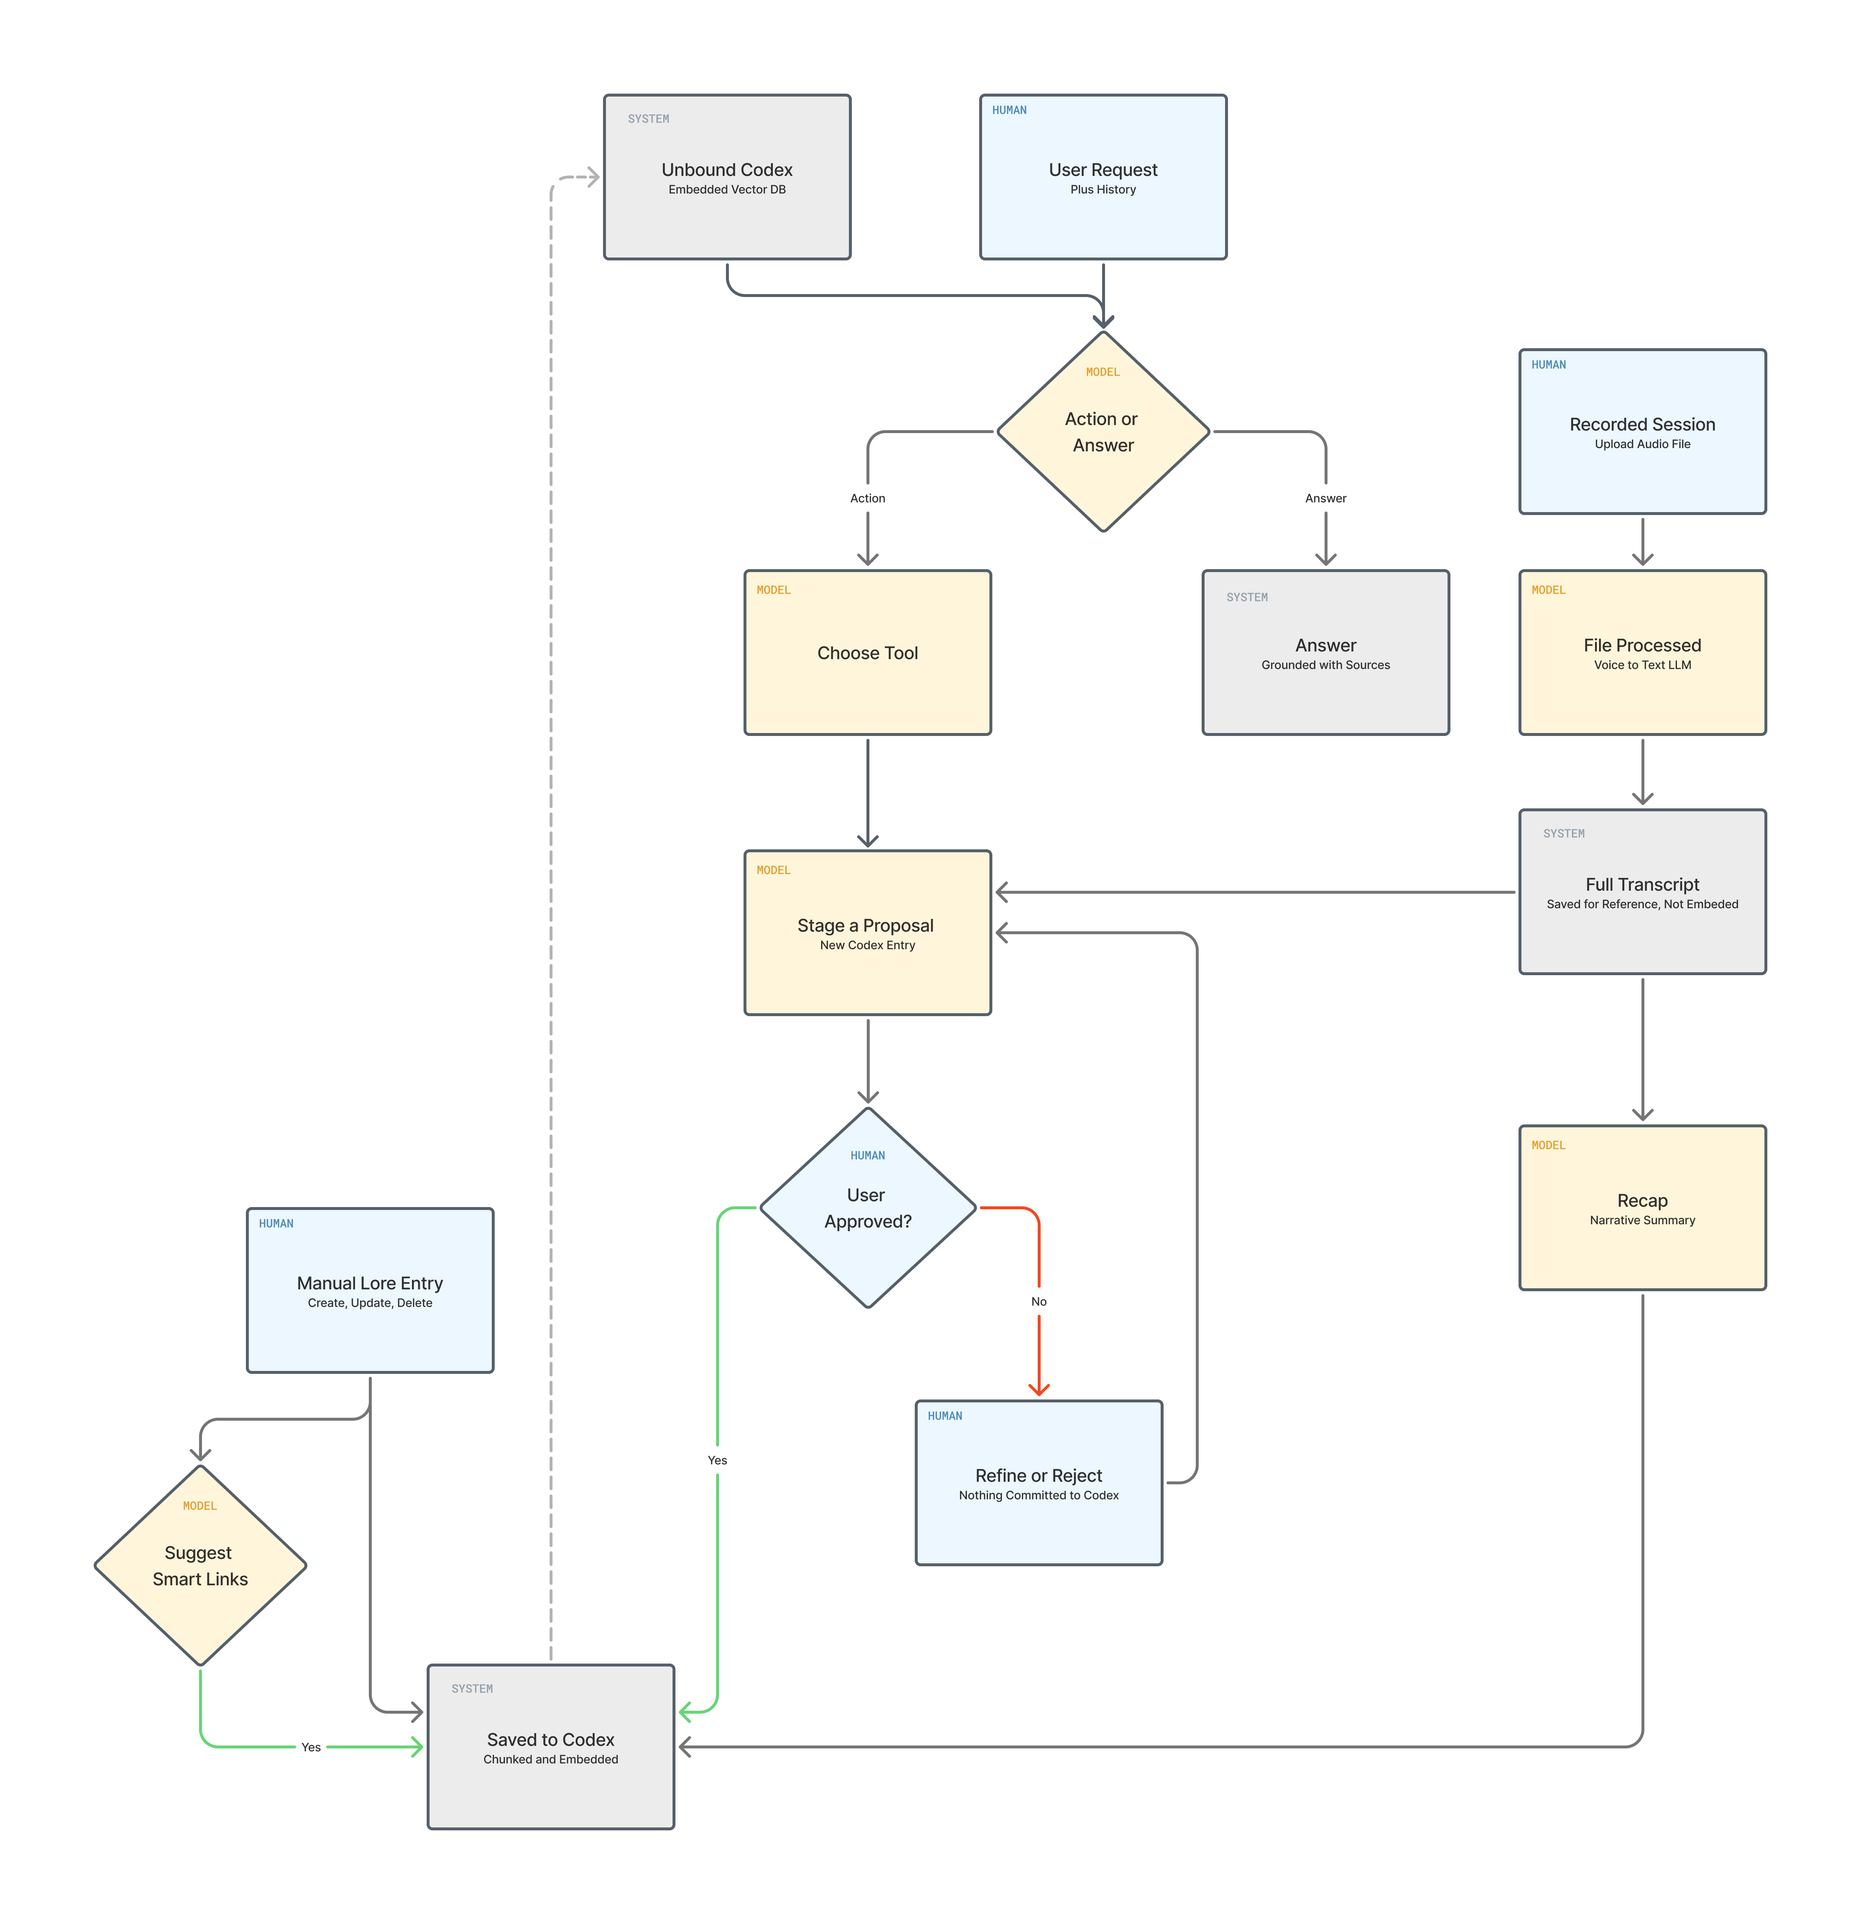
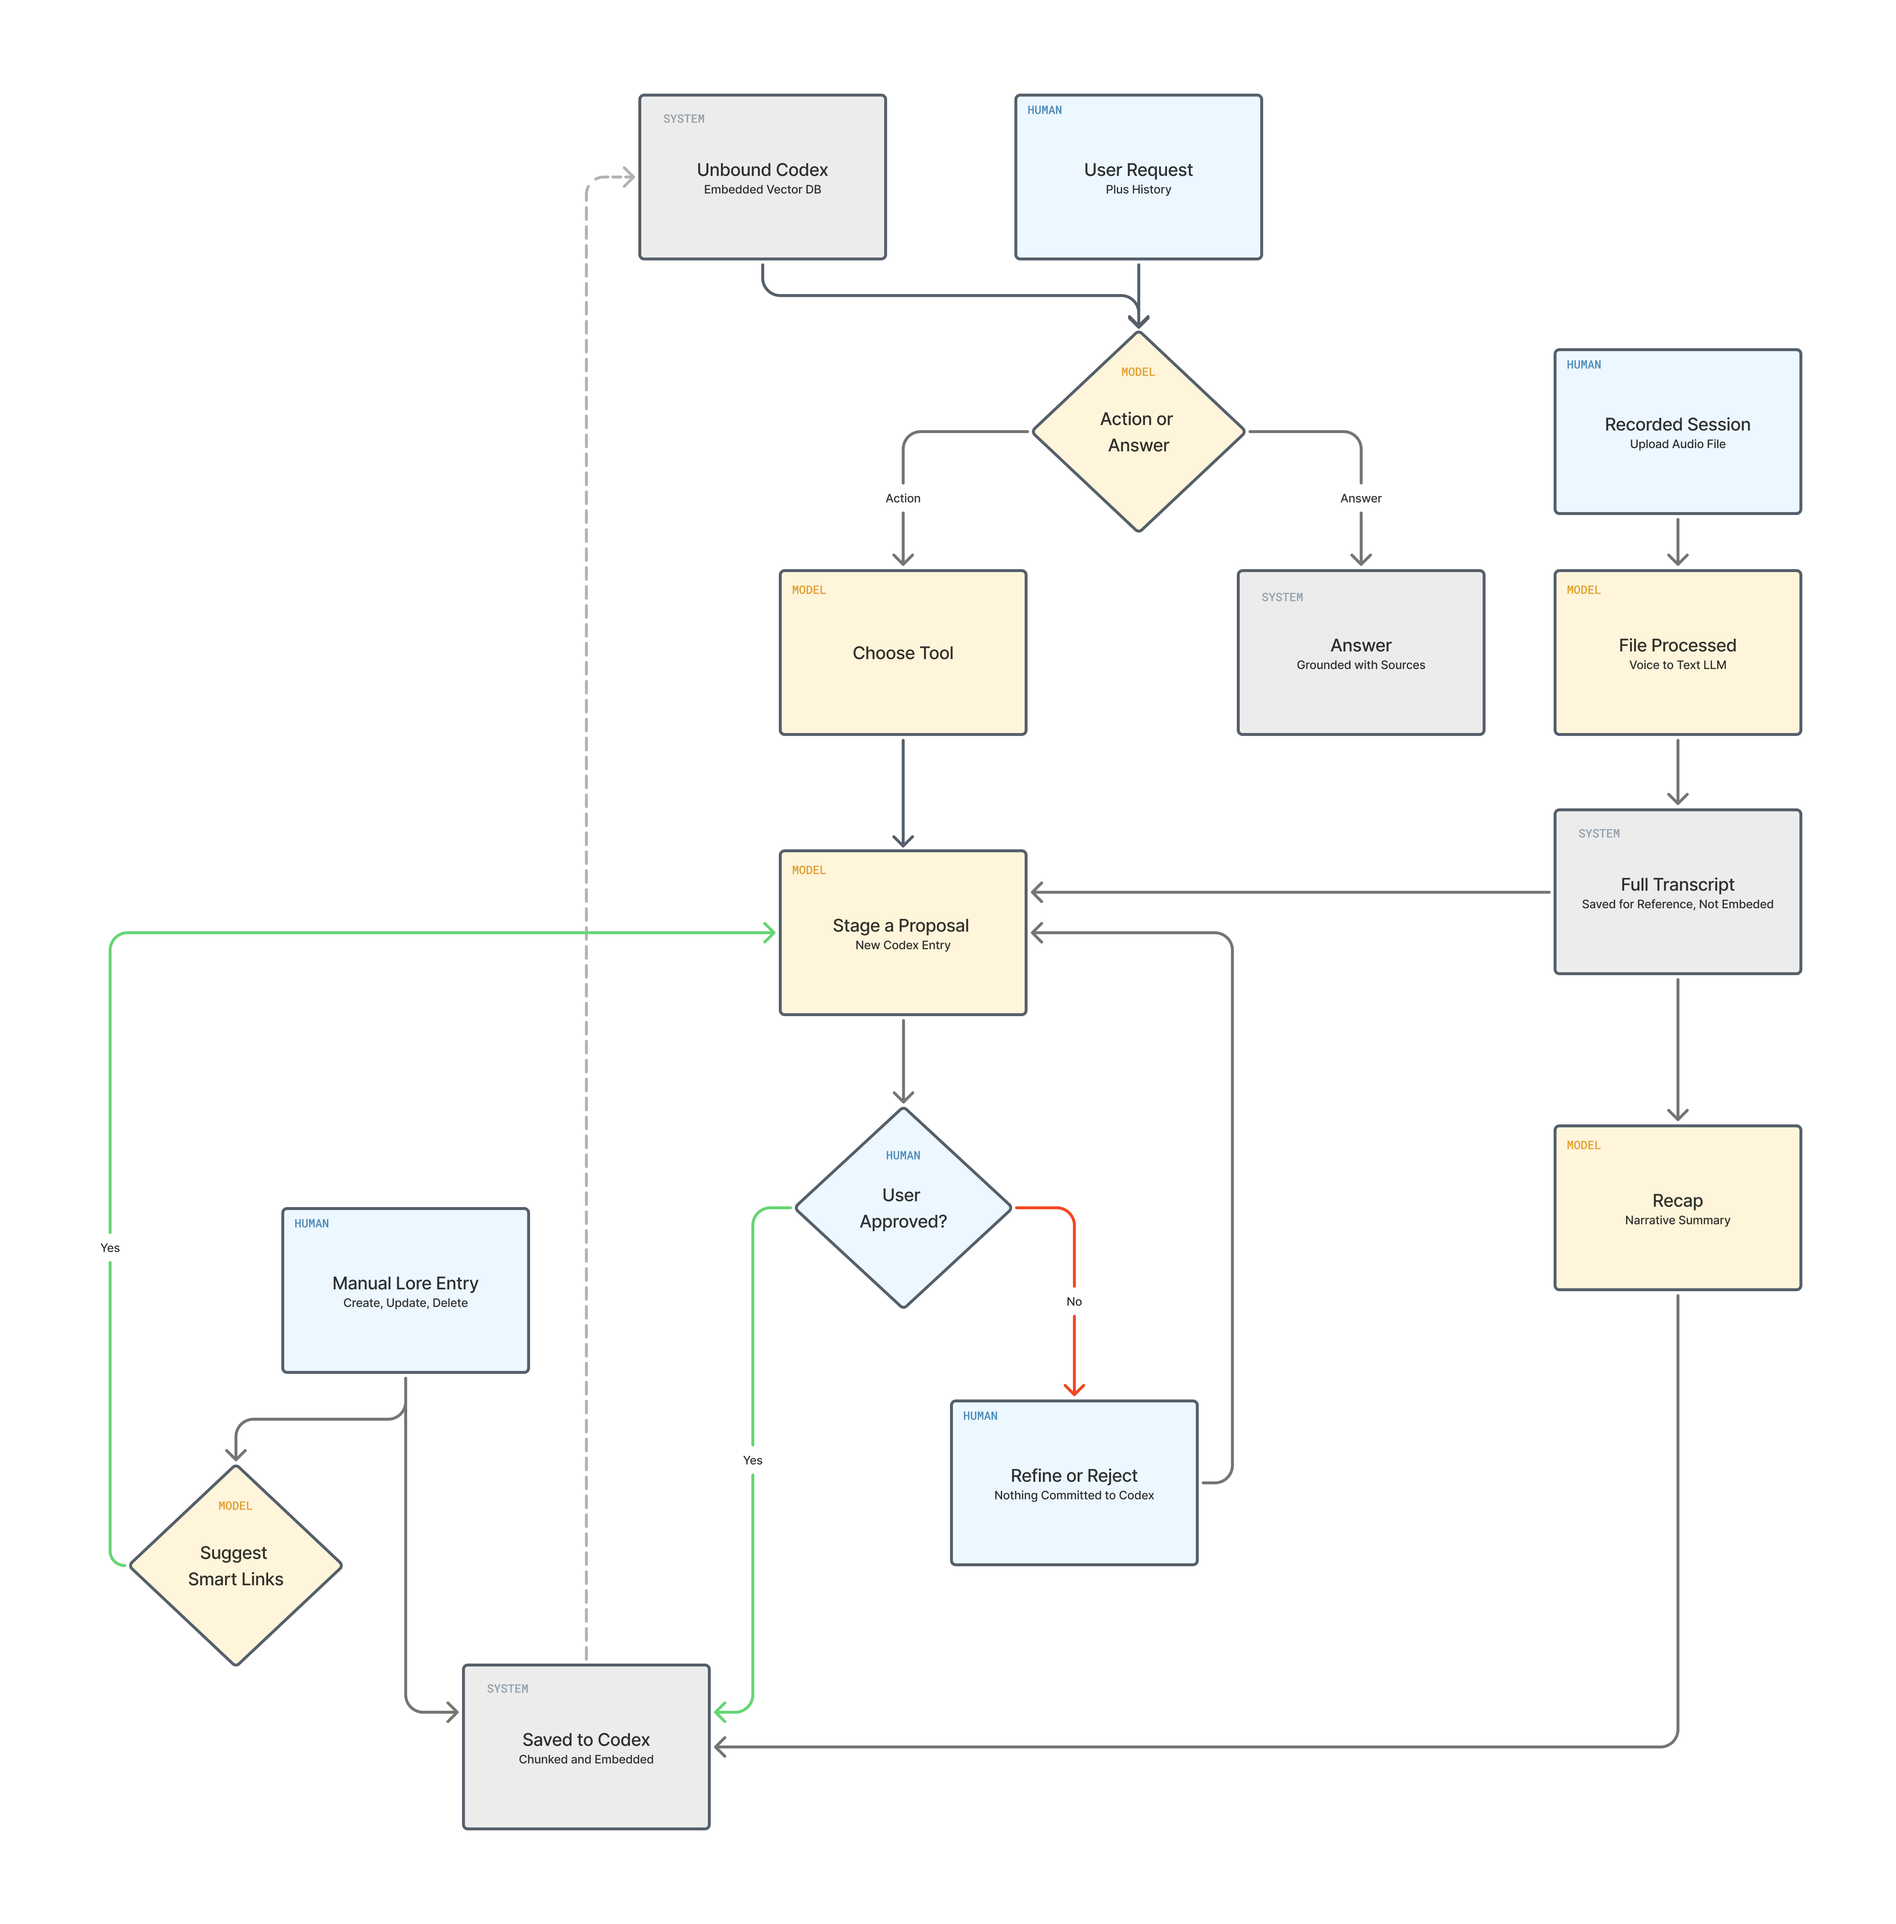
portfolio update

diff --git a/assets/css/style.css b/assets/css/style.css
@@ -3480,14 +3480,6 @@ a.project-card {
   margin: 12px;
 }
 
-/* Unbound Codex card cover: a UI panel, so cropping it cuts the toolbar and
-   the footer disclaimer. Contain it whole and let the card's own gradient
-   show as the surrounding plate. */
-.side-card-cover--unbound .side-card-img {
-  object-fit: contain;
-  padding: 12px;
-}
-
 /* Cropped hero image. A very wide source scaled to the hero width renders its
    detail too small to read. Constraining the box to a taller ratio and
    covering crops the sides instead, so the artwork renders larger and sharper.

diff --git a/unbound-codex/index.md b/unbound-codex/index.md
@@ -62,7 +62,6 @@ permalink: /unbound-codex/
   <div class="major-section-inner major-section-inner--wide">
     <div class="subsection">
       <h3 class="case-study-sub-mode">The grounding loop</h3>
-      <p>Under the panel is a retrieval-augmented loop with one rule: Silias can only answer from what's in the codex, and can only change it with your say-so. Every entry is embedded ahead of time, a question retrieves against that store, the answer cites what it used, and any write is a staged proposal you approve before it lands. Three things can feed that loop &mdash; a request in chat, a recorded session mined for the moments worth keeping, or lore you write by hand &mdash; and every one of them converges on the same human approval gate before anything becomes canon. It's the same reason a legal or research tool has to be grounded, verifiable, and human-gated, applied to a campaign world.</p>
       <div class="case-study-callout-row">
         <figure class="cs-callout-figure">
           <img src="{{ '/assets/img/unbound-codex/uc-rag-flow.png' | relative_url }}" alt="Flow diagram of the Unbound Codex grounding loop. A user request (with history) and the embedded codex feed a model decision: answer or act. Answers are grounded and cited and stop there; actions choose a tool and stage a proposal. Two other inputs feed the same staged proposal: a recorded session transcribed to a recap, and manual lore entry with suggested smart links. Every proposal reaches a human 'User approved?' gate. Yes saves it to the codex, chunked and re-embedded, closing the loop. No sends it back to refine or reject, with nothing committed.">
@@ -102,7 +101,6 @@ permalink: /unbound-codex/
       </div>
 
       <h3 class="case-study-sub-mode">Always one keystroke away, always grounded</h3>
-      <p>Silias rides along on every screen in a panel that never leaves. He answers in-character from the campaign's own canon, cites the entries he leaned on ("Grounded in: Campaign / SRD"), and turns any answer into a scene, an NPC, or the next beat. The point is a collaborator you can trust because you can see exactly where every claim came from.</p>
       <div class="case-study-callout-row">
         <figure class="cs-callout-figure">
           <img src="{{ '/assets/img/unbound-codex/uc-silias-overview.png' | relative_url }}" alt="Campaign overview with the Ask Silias panel and its signature gradient border">
@@ -120,7 +118,6 @@ permalink: /unbound-codex/
       </div>
 
       <h3 class="case-study-sub-mode">Nothing lands without your yes</h3>
-      <p>Ask Silias to build something and he hands back a plan, not a fait accompli. A single <em>/plan</em> can propose a connected set (an NPC, the quest they give, the location they live in) generated together so the pieces stay consistent with each other and the world. Every piece is a staged change you approve, edit, or reject. The AI is useful without ever being authoritative.</p>
       <div class="case-study-callout-row">
         <figure class="cs-callout-figure">
           <img src="{{ '/assets/img/unbound-codex/uc-silias-plan.png' | relative_url }}" alt="Silias returning a multi-step plan with staged NPC and quest proposals to approve or reject">
@@ -138,7 +135,6 @@ permalink: /unbound-codex/
       </div>
 
       <h3 class="case-study-sub-mode">The codex he reads from</h3>
-      <p>Lore lives as long-form, in-world documents: the "Folio" material, with hairline gold rules and no wrapper box. Entries reference each other by id, so editing one propagates everywhere it's mentioned, and a single visibility flag decides whether the party ever sees it.</p>
       <div class="case-study-callout-row">
         <figure class="cs-callout-figure">
           <img src="{{ '/assets/img/unbound-codex/uc-lore.png' | relative_url }}" alt="A lore entry rendered as an in-world Folio document with an entry tree">
@@ -161,7 +157,7 @@ permalink: /unbound-codex/
     <div class="case-study-act-number">02</div>
     <div class="case-study-act-content">
       <h2 class="case-study-act-title">A world you can actually run</h2>
-      <p class="case-study-act-intro">The codex covers everything a DM touches in a week: the Atlas, the cast, the threads in motion, the encounter builder, the bestiary. It's shaped around the rituals of play (prep, session, recap) rather than around tables and forms. The design through-line is a set of rules I wrote down and held to: a box means "you can click me," hairlines instead of outlines, category signaled by a tinted icon rather than a bare colored dot. The goal was software that looks designed, not generated.</p>
+      <p class="case-study-act-intro">The codex covers everything a DM touches in a week: the Atlas, the cast, the threads in motion, the graph tying them together, the encounter builder, the bestiary. It's shaped around the rituals of play (prep, session, recap) rather than around tables and forms. The design through-line is a set of rules I wrote down and held to: a box means "you can click me," hairlines instead of outlines, category signaled by a tinted icon rather than a bare colored dot. The goal was software that looks designed, not generated.</p>
     </div>
   </div>
 </section>
@@ -170,7 +166,6 @@ permalink: /unbound-codex/
   <div class="major-section-inner major-section-inner--wide">
     <div class="subsection">
       <h3 class="case-study-sub-mode">The Atlas</h3>
-      <p>The world made spatial. Hand-drawn regional maps, nested sub-maps, and pins that hold their lore. The GM / Player line at the top is the most important control on the page.</p>
       <div class="case-study-callout-row">
         <figure class="cs-callout-figure">
           <img src="{{ '/assets/img/unbound-codex/uc-atlas.png' | relative_url }}" alt="The Atlas showing a hand-drawn map of Aethel with location pins">
@@ -186,7 +181,6 @@ permalink: /unbound-codex/
       </div>
 
       <h3 class="case-study-sub-mode">Characters of the World</h3>
-      <p>NPCs get a purpose-built page, not a generic record. What you can say at the table sits beside what only you know, and the whole thing follows the de-box rules: no wrapper boxes, hairline separators, a locked panel for secrets.</p>
       <div class="case-study-callout-row">
         <figure class="cs-callout-figure">
           <img src="{{ '/assets/img/unbound-codex/uc-npc.png' | relative_url }}" alt="An NPC detail page for Elder Corin with at-the-table facts beside GM-only secrets">
@@ -204,7 +198,6 @@ permalink: /unbound-codex/
       </div>
 
       <h3 class="case-study-sub-mode">Threads</h3>
-      <p>The story layer players never see: what's in motion, who's driving it, and the secrets waiting to be found. It's the difference between a binder of static lore and a campaign that's actually going somewhere.</p>
       <div class="case-study-callout-row">
         <figure class="cs-callout-figure">
           <img src="{{ '/assets/img/unbound-codex/uc-threads.png' | relative_url }}" alt="The Threads view showing a driver, stakes, secrets and clues, and beats">
@@ -219,8 +212,26 @@ permalink: /unbound-codex/
         </ol>
       </div>
 
+      <h3 class="case-study-sub-mode">The Weave</h3>
+      <div class="case-study-callout-row">
+        <figure class="cs-callout-figure">
+          <img src="{{ '/assets/img/unbound-codex/knowledge-graph-01.png' | relative_url }}" alt="The Weave: a knowledge graph of the campaign showing entities and links, a detail panel for The Living Codex with its relationships and suggested links awaiting review, a session timeline scrubber, and Silias answering from the campaign graph">
+          <span class="cs-callout-marker" style="--x: 56%; --y: 16%;">1</span>
+          <span class="cs-callout-marker" style="--x: 64%; --y: 26%;">2</span>
+          <span class="cs-callout-marker" style="--x: 64%; --y: 67%;">3</span>
+          <span class="cs-callout-marker" style="--x: 24%; --y: 95%;">4</span>
+          <span class="cs-callout-marker" style="--x: 84%; --y: 32%;">5</span>
+        </figure>
+        <ol class="cs-callout-notes-side">
+          <li><span class="cs-callout-num">1</span> "Unconnected &middot; 14" is a filter, not a warning. Fourteen entities link to nothing, which is the most useful thing the graph can tell a DM: here is the part of your world you invented and then forgot about.</li>
+          <li><span class="cs-callout-num">2</span> The timeline scrubs the graph back through the campaign. "Through session" rebuilds the world as it stood at any point, which is how you answer the question that actually comes up at the table: what did the party know back in session four?</li>
+          <li><span class="cs-callout-num">3</span> Proposed links arrive with a confidence score and the line from the session that suggested them. A link is a claim about your canon, so it runs the same propose-review-approve gate as everything else Silias touches. Nothing gets wired up on a 51% guess without your say-so.</li>
+          <li><span class="cs-callout-num">4</span> The review queue batches every pending link with its evidence and the session it came from, so confirming them is a few minutes between sessions instead of an interruption in the middle of prep.</li>
+          <li><span class="cs-callout-num">5</span> When Silias answers, he names how many graph entities he drew on. Same principle as the rest of the panel: the citation is what separates an answer you can check from one you have to take on faith.</li>
+        </ol>
+      </div>
+
       <h3 class="case-study-sub-mode">Encounters &amp; bestiary</h3>
-      <p>Combat, social, exploration, skill. Each encounter type keeps its own color the whole way through, and the party's XP budget is always in view so a fight is calibrated to your table instead of a generic stat block.</p>
       <div class="case-study-callout-row">
         <figure class="cs-callout-figure">
           <img src="{{ '/assets/img/unbound-codex/uc-encounters.png' | relative_url }}" alt="The encounter builder with type filters and XP-budgeted encounter cards">
@@ -265,7 +276,6 @@ permalink: /unbound-codex/
   <div class="major-section-inner major-section-inner--wide">
     <div class="subsection">
       <h3 class="case-study-sub-mode">The DM Screen, live</h3>
-      <p>A prepped session opens into a live control surface: a spotlight the party sees, a session timer, and an event log running down the side. Anything in the codex (a portrait, a stat block, a map, a piece of lore) can be pushed to the table in one click.</p>
       <div class="case-study-callout-row">
         <figure class="cs-callout-figure">
           <img src="{{ '/assets/img/unbound-codex/uc-dmscreen.png' | relative_url }}" alt="The live DM Screen with a spotlighted NPC, a session timer, and a running event log">
@@ -283,7 +293,6 @@ permalink: /unbound-codex/
       </div>
 
       <h3 class="case-study-sub-mode">What the players see</h3>
-      <p>Players get their own view: only the lore and maps the DM has surfaced, and a version of Silias that's bound by the same wall.</p>
       <div class="case-study-callout-row">
         <figure class="cs-callout-figure">
           <img src="{{ '/assets/img/unbound-codex/uc-player-shared.png' | relative_url }}" alt="The player's Shared view with the same-campaign player toggle active">
@@ -299,7 +308,6 @@ permalink: /unbound-codex/
       </div>
 
       <h3 class="case-study-sub-mode">Recaps that build the world</h3>
-      <p>After the session, drop in the recording and come back to a clean narrative recap you can paste into the party chat. Underneath, Silias surfaces the lore hooks he heard but you never wrote down, so the campaign grows from the table, not just from prep.</p>
       <div class="case-study-callout-row">
         <figure class="cs-callout-figure">
           <img src="{{ '/assets/img/unbound-codex/uc-recap.png' | relative_url }}" alt="A session recap rendered as a clean narrative with an audio-recap action">
